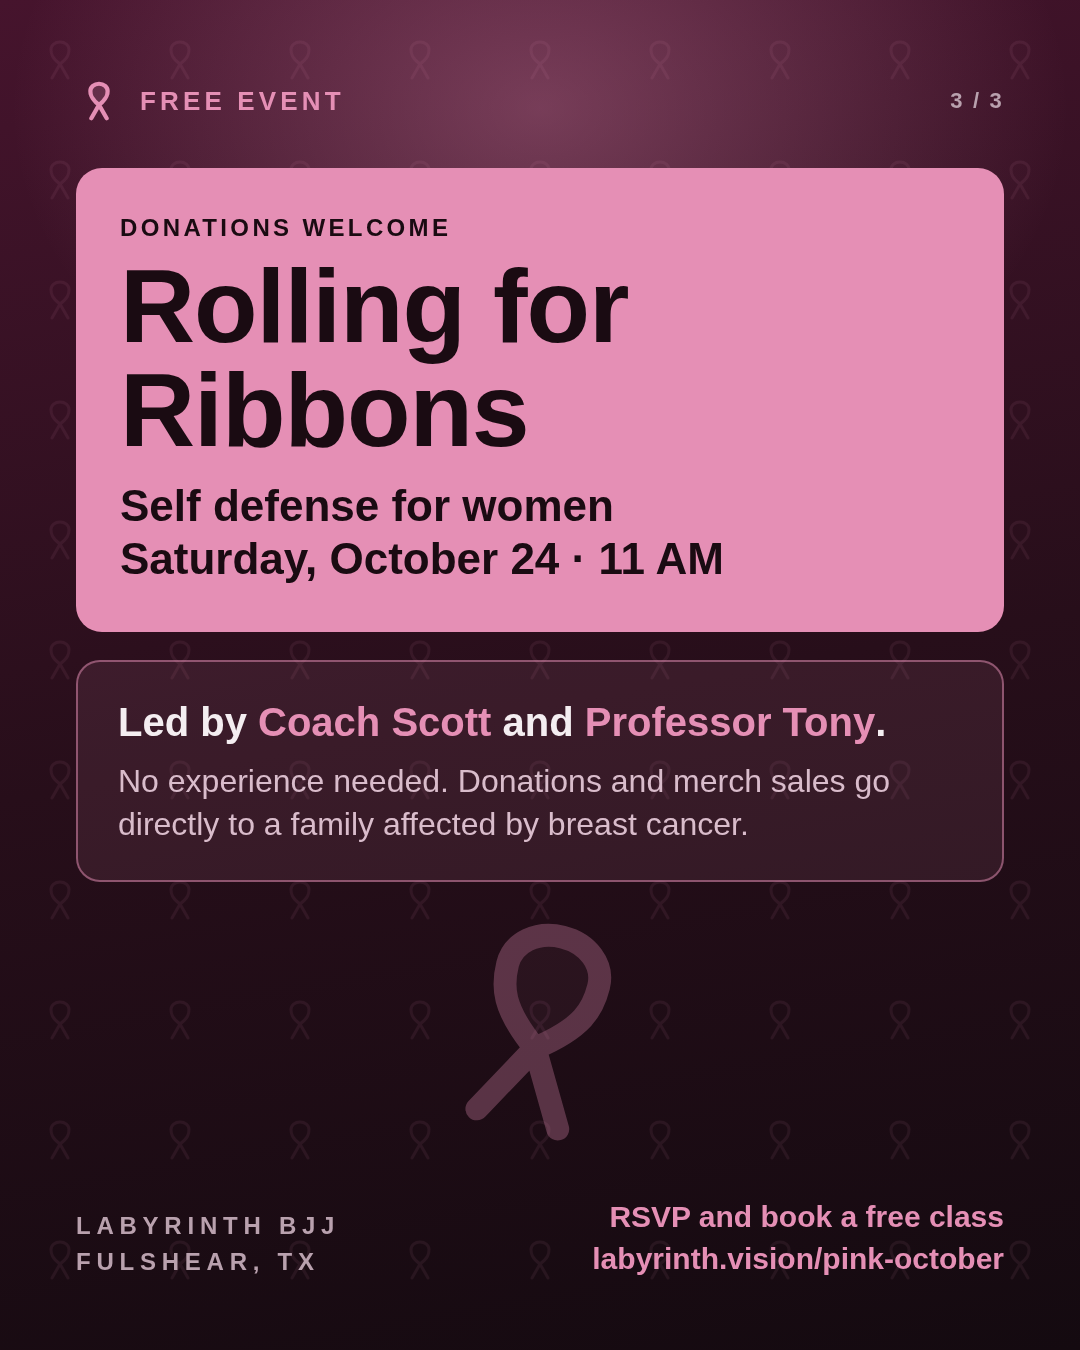
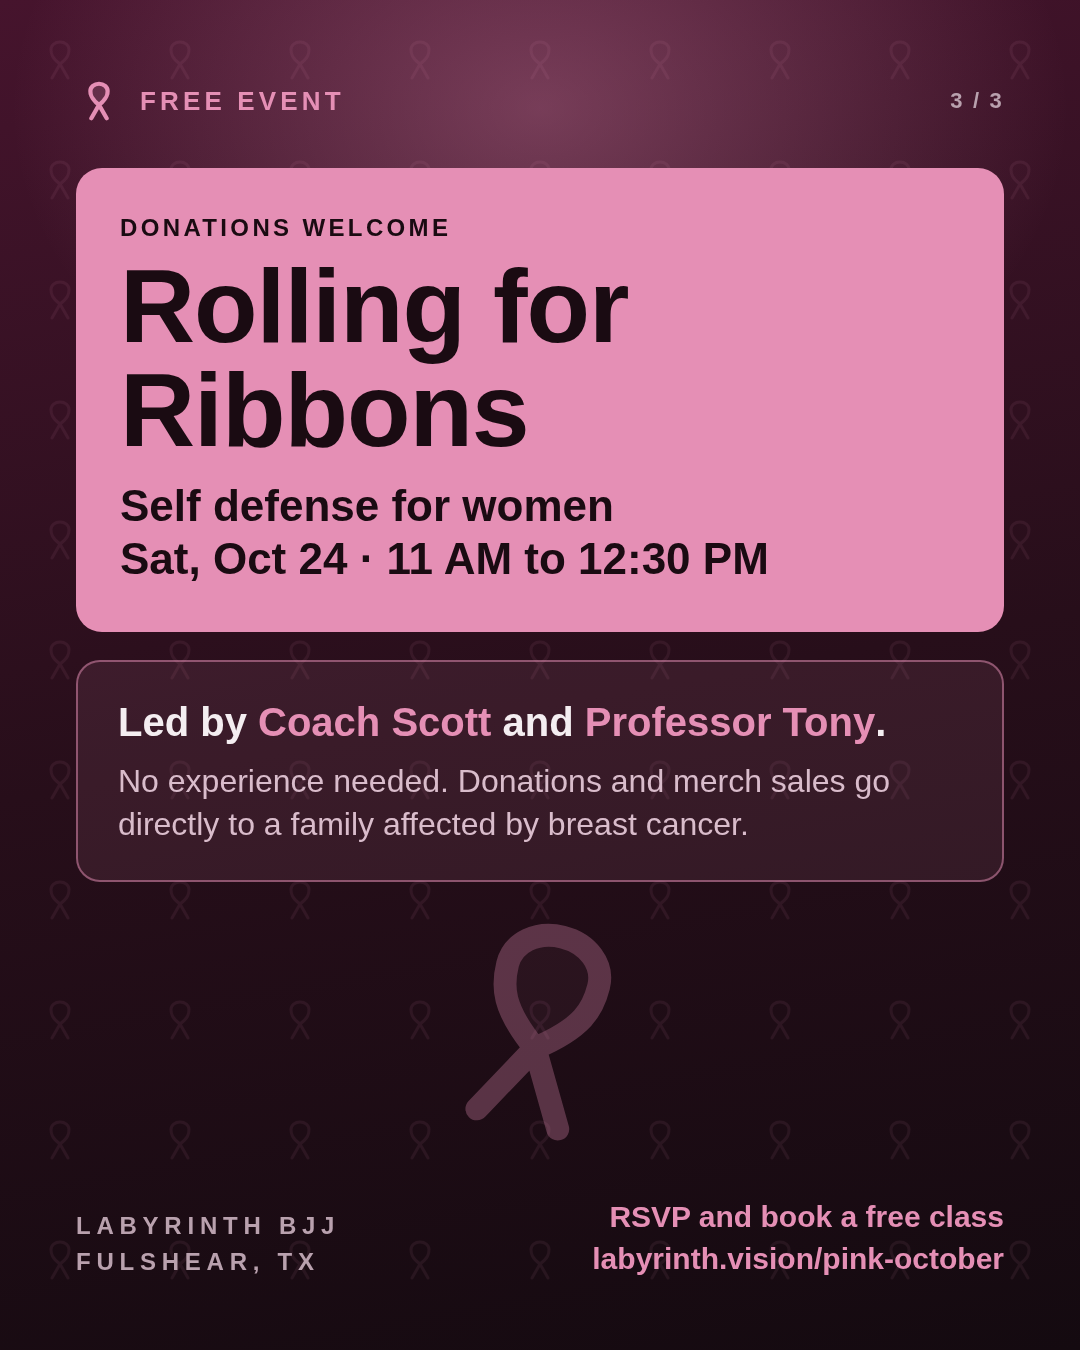
Seminar runs 11:00 AM to 12:30 PM
The hero, thank-you panel, calendar entries, structured data, share image, Instagram
slide, captions and member email all show the full time.

Claude-Session: https://claude.ai/code/session_01T1jcBhMbJVQd3Vp58LzqMh
(cherry picked from commit 36f6d62b3d1dbeb395bc60c4fb3bab60c4b86f59)

Changed region(s): [[0.1528, 0.4044, 0.7333, 0.4356]]

diff --git a/self-defense-for-women.html b/self-defense-for-women.html
@@ -57,6 +57,7 @@
   "description": "Free BJJ self defense seminar for women on Saturday, October 24 at 11:00 AM at Labyrinth BJJ in Fulshear, TX. No experience needed. RSVP now. Donations go to a family affected by breast cancer.",
   "url": "https://labyrinth.vision/self-defense-for-women",
   "startDate": "2026-10-24T11:00:00-05:00",
+  "endDate": "2026-10-24T12:30:00-05:00",
   "eventStatus": "https://schema.org/EventScheduled",
   "eventAttendanceMode": "https://schema.org/OfflineEventAttendanceMode",
   "isAccessibleForFree": true,
@@ -167,7 +168,7 @@
     </div>
     <div class="prog-facts">
       <div class="prog-fact"><div class="prog-fact__label">Date</div><div class="prog-fact__value">Sat, Oct 24</div></div>
-      <div class="prog-fact"><div class="prog-fact__label">Time (Central)</div><div class="prog-fact__value">11:00 AM</div></div>
+      <div class="prog-fact"><div class="prog-fact__label">Time (Central)</div><div class="prog-fact__value">11:00 AM to 12:30 PM</div></div>
       <div class="prog-fact"><div class="prog-fact__label">Where</div><div class="prog-fact__value">Labyrinth BJJ, Fulshear, TX</div></div>
       <div class="prog-fact"><div class="prog-fact__label">Cost</div><div class="prog-fact__value"><em>Free</em></div></div>
     </div>
@@ -193,7 +194,7 @@
 
     <form class="booking-form rsvp__form" id="rsvp-form" novalidate
           data-event="self-defense-women-2026-10-21" data-endpoint="https://jctufxvmuvobaggxcwfn.supabase.co/functions/v1/event-rsvp" data-closes="2026-10-25T10:00:00Z"
-          data-start="2026-10-24T11:00:00-05:00" data-title="Rolling for Ribbons: BJJ for Self Defense for Women" data-where="Labyrinth BJJ, 6615 West Cross Creek Bend Lane, Suite #400, Fulshear, TX 77441" data-url="https://labyrinth.vision/self-defense-for-women">
+          data-start="2026-10-24T11:00:00-05:00" data-minutes="90" data-title="Rolling for Ribbons: BJJ for Self Defense for Women" data-where="Labyrinth BJJ, 6615 West Cross Creek Bend Lane, Suite #400, Fulshear, TX 77441" data-url="https://labyrinth.vision/self-defense-for-women">
       <p class="rsvp__form-title"><svg class="ribbon" width="18" height="18" viewBox="0 0 24 24" fill="none" stroke="currentColor" stroke-width="2.2" stroke-linecap="round" stroke-linejoin="round" aria-hidden="true" focusable="false"><path d="M12 14C8 11 7.5 9 7.5 6.8 7.5 4.6 9.5 3 12 3s4.5 1.6 4.5 3.8C16.5 9 16 11 12 14zM12 14 8 21M12 14l4 7" fill="currentColor" fill-opacity=".18"/></svg>Save your spot <span>Takes 30 seconds</span></p>
       <div class="booking-form__group">
         <label class="booking-form__label" for="rsvp-name">Full name</label>
@@ -248,7 +249,7 @@
       <svg class="ribbon" width="40" height="40" viewBox="0 0 24 24" fill="none" stroke="currentColor" stroke-width="2.2" stroke-linecap="round" stroke-linejoin="round" aria-hidden="true" focusable="false"><path d="M12 14C8 11 7.5 9 7.5 6.8 7.5 4.6 9.5 3 12 3s4.5 1.6 4.5 3.8C16.5 9 16 11 12 14zM12 14 8 21M12 14l4 7" fill="currentColor" fill-opacity=".18"/></svg>
       <p class="section-label rsvp-label">You are on the list</p>
       <h2 class="section-title section-title--lg" id="rsvp-success-title">SEE YOU THERE</h2>
-      <p><span id="rsvp-success-name"></span>, we have you down for <span id="rsvp-success-party"></span> on <strong>Saturday, October 24 at 11:00 AM</strong> at Labyrinth BJJ in Fulshear.</p>
+      <p><span id="rsvp-success-name"></span>, we have you down for <span id="rsvp-success-party"></span> on <strong>Saturday, October 24, 11:00 AM to 12:30 PM</strong> at Labyrinth BJJ in Fulshear.</p>
       <p>A confirmation is on its way to <strong id="rsvp-success-email"></strong>. If you do not see it in a few minutes, check your spam folder. To change your RSVP, just submit this form again.</p>
       <div class="prog-hero__cta rsvp__next">
         <a href="#" class="btn btn--gold" id="rsvp-cal-google" target="_blank" rel="noopener noreferrer">Add to Google Calendar</a>
@@ -367,7 +368,7 @@
 </section>
 
 <a href="#rsvp" class="rsvp-sticky" id="rsvp-sticky" hidden><svg class="ribbon" width="16" height="16" viewBox="0 0 24 24" fill="none" stroke="currentColor" stroke-width="2.2" stroke-linecap="round" stroke-linejoin="round" aria-hidden="true" focusable="false"><path d="M12 14C8 11 7.5 9 7.5 6.8 7.5 4.6 9.5 3 12 3s4.5 1.6 4.5 3.8C16.5 9 16 11 12 14zM12 14 8 21M12 14l4 7" fill="currentColor" fill-opacity=".18"/></svg><span><strong>RSVP free</strong> &middot; Sat, Oct 24 &middot; 11:00 AM</span><b>Save My Spot</b></a>
-<script src="/rsvp.js?v=8e211cfd" defer></script>
+<script src="/rsvp.js?v=62f664ed" defer></script>
 
 </main>
 

diff --git a/rsvp.js b/rsvp.js
@@ -88,7 +88,7 @@
   var pageTitle = form.getAttribute('data-title') || 'Rolling for Ribbons';
   var where = form.getAttribute('data-where') || 'Labyrinth BJJ, Fulshear, TX';
   var pageUrl = form.getAttribute('data-url') || window.location.href.split('?')[0];
-  var EVENT_MINUTES = 60;  // a default for calendar entries; the page does not promise a length
+  var EVENT_MINUTES = parseInt(form.getAttribute('data-minutes'), 10) || 90;  // 11:00 AM to 12:30 PM
 
   function centralDay(ms) {
     return new Intl.DateTimeFormat('en-CA', { timeZone: 'America/Chicago', year: 'numeric', month: '2-digit', day: '2-digit' }).format(new Date(ms));
@@ -141,7 +141,7 @@
     var btn = $('rsvp-share'), msg = $('rsvp-shared');
     if (!btn) return;
     btn.addEventListener('click', function () {
-      var text = 'Free self defense seminar for women, Saturday, October 24 at 11 AM at Labyrinth BJJ in Fulshear. No experience needed. Come with me?';
+      var text = 'Free self defense seminar for women, Saturday, October 24, 11 AM to 12:30 PM, at Labyrinth BJJ in Fulshear. No experience needed. Come with me?';
       if (navigator.share) {
         navigator.share({ title: pageTitle, text: text, url: pageUrl }).catch(function () { /* closed the sheet */ });
         return;

diff --git a/scripts/email-pink-october.html b/scripts/email-pink-october.html
@@ -63,7 +63,7 @@
           <div style="font-size:13px;font-weight:bold;letter-spacing:2px;color:#E58FB5;text-transform:uppercase;">Free event &middot; Donations welcome</div>
           <div style="margin-top:6px;font-size:30px;line-height:1.15;font-weight:bold;color:#ffffff;">Rolling for Ribbons</div>
           <div style="margin-top:4px;font-size:18px;line-height:1.4;font-weight:bold;color:#fbd3e3;">Self defense for women</div>
-          <div style="margin-top:14px;font-size:17px;line-height:1.5;color:#ffffff;"><strong>Saturday, October 24 at 11:00 AM</strong><br>Labyrinth BJJ, Fulshear, TX</div>
+          <div style="margin-top:14px;font-size:17px;line-height:1.5;color:#ffffff;"><strong>Saturday, October 24, 11:00 AM to 12:30 PM</strong><br>Labyrinth BJJ, Fulshear, TX</div>
           <div style="margin-top:14px;font-size:16px;line-height:1.6;color:#fbd3e3;">Led by Coach Scott and Professor Tony. It's free, and no experience is needed. Donations and merch sales at the event go directly to a family affected by breast cancer.</div>
           <table role="presentation" cellpadding="0" cellspacing="0" border="0" style="margin-top:20px;">
             <tr><td align="center" bgcolor="#E58FB5" style="border-radius:10px;">

diff --git a/scripts/instagram-pink-october.html b/scripts/instagram-pink-october.html
@@ -81,7 +81,7 @@
 <div class="slide s3" id="s3"><div class="pattern"></div>
   <div class="wrap">
     <div class="top"><svg><use href="#rib"/></svg>Free event<span class="pg">3 / 3</span></div>
-    <div class="event"><small>Donations welcome</small><b>Rolling for Ribbons</b><span>Self defense for women<br>Saturday, October 24 &middot; 11 AM</span></div>
+    <div class="event"><small>Donations welcome</small><b>Rolling for Ribbons</b><span>Self defense for women<br>Sat, Oct 24 &middot; 11 AM to 12:30 PM</span></div>
     <div class="led">Led by <b>Coach Scott</b> and <b>Professor Tony</b>.<i>No experience needed. Donations and merch sales go directly to a family affected by breast cancer.</i></div>
     <svg class="bigrib"><use href="#rib"/></svg>
     <div class="foot">

diff --git a/scripts/og-self-defense.html b/scripts/og-self-defense.html
@@ -24,7 +24,7 @@
     <div class="badge">Breast cancer awareness</div>
     <h1>Rolling for <span>Ribbons</span></h1>
     <div class="sub">BJJ for Self Defense for Women</div>
-    <div class="when">Saturday, October 24 &middot; 11:00 AM</div>
+    <div class="when">Saturday, October 24 &middot; 11:00 AM to 12:30 PM</div>
     <div class="free">FREE &middot; No experience needed</div>
   </div>
   <div class="brand">LABYRINTH BJJ &middot; FULSHEAR, TX</div>

diff --git a/scripts/build_pages.py b/scripts/build_pages.py
@@ -779,6 +779,8 @@ EVENT = {
     "path": "/self-defense-for-women",
     # 11:00 AM on Oct 24 is CDT (UTC-5): Texas moves its clocks on Nov 1.
     "start": "2026-10-24T11:00:00-05:00",
+    # 11:00 AM to 12:30 PM.
+    "minutes": 90,
     # After this the form says the event has passed (and the server refuses).
     # Matches closesAt in event-emails.ts: 5:00 AM Central the next morning.
     "closes_utc": "2026-10-25T10:00:00Z",
@@ -813,6 +815,15 @@ def _event_when():
     hour12 = d.hour % 12 or 12
     time = "%d:%02d %s" % (hour12, d.minute, "AM" if d.hour < 12 else "PM")
     return (d.strftime("%A, %B ") + str(d.day), d.strftime("%a, %b ") + str(d.day), time)
+
+
+def _event_range():
+    """'11:00 AM to 12:30 PM', and the end as an ISO instant for the structured data."""
+    import datetime
+    d = datetime.datetime.fromisoformat(EVENT["start"])
+    e = d + datetime.timedelta(minutes=EVENT["minutes"])
+    fmt = lambda t: "%d:%02d %s" % (t.hour % 12 or 12, t.minute, "AM" if t.hour < 12 else "PM")
+    return "%s to %s" % (fmt(d), fmt(e)), e.isoformat()
 
 
 # ── /pink-october ────────────────────────────────────────────────────────────
@@ -889,6 +900,7 @@ def render_event_rsvp():
                 "@context": "https://schema.org", "@type": "Event",
                 "name": EVENT["name"], "description": desc, "url": url,
                 "startDate": EVENT["start"],
+                "endDate": _event_range()[1],
                 "eventStatus": "https://schema.org/EventScheduled",
                 "eventAttendanceMode": "https://schema.org/OfflineEventAttendanceMode",
                 "isAccessibleForFree": True,
@@ -924,7 +936,7 @@ def render_event_rsvp():
     </div>
     <div class="prog-facts">
       <div class="prog-fact"><div class="prog-fact__label">Date</div><div class="prog-fact__value">@@SHORT@@</div></div>
-      <div class="prog-fact"><div class="prog-fact__label">Time (Central)</div><div class="prog-fact__value">@@TIME@@</div></div>
+      <div class="prog-fact"><div class="prog-fact__label">Time (Central)</div><div class="prog-fact__value">@@RANGE@@</div></div>
       <div class="prog-fact"><div class="prog-fact__label">Where</div><div class="prog-fact__value">Labyrinth BJJ, Fulshear, TX</div></div>
       <div class="prog-fact"><div class="prog-fact__label">Cost</div><div class="prog-fact__value"><em>Free</em></div></div>
     </div>
@@ -950,7 +962,7 @@ def render_event_rsvp():
 
     <form class="booking-form rsvp__form" id="rsvp-form" novalidate
           data-event="@@SLUG@@" data-endpoint="@@ENDPOINT@@" data-closes="@@CLOSES@@"
-          data-start="@@STARTISO@@" data-title="@@NAME@@" data-where="@@WHERE@@" data-url="@@PAGEURL@@">
+          data-start="@@STARTISO@@" data-minutes="@@MINUTES@@" data-title="@@NAME@@" data-where="@@WHERE@@" data-url="@@PAGEURL@@">
       <p class="rsvp__form-title">@@RIBBON18@@Save your spot <span>Takes 30 seconds</span></p>
       <div class="booking-form__group">
         <label class="booking-form__label" for="rsvp-name">Full name</label>
@@ -1005,7 +1017,7 @@ def render_event_rsvp():
       @@RIBBON40@@
       <p class="section-label rsvp-label">You are on the list</p>
       <h2 class="section-title section-title--lg" id="rsvp-success-title">SEE YOU THERE</h2>
-      <p><span id="rsvp-success-name"></span>, we have you down for <span id="rsvp-success-party"></span> on <strong>@@LONG@@ at @@TIME@@</strong> at Labyrinth BJJ in Fulshear.</p>
+      <p><span id="rsvp-success-name"></span>, we have you down for <span id="rsvp-success-party"></span> on <strong>@@LONG@@, @@RANGE@@</strong> at Labyrinth BJJ in Fulshear.</p>
       <p>A confirmation is on its way to <strong id="rsvp-success-email"></strong>. If you do not see it in a few minutes, check your spam folder. To change your RSVP, just submit this form again.</p>
       <div class="prog-hero__cta rsvp__next">
         <a href="#" class="btn btn--gold" id="rsvp-cal-google" target="_blank" rel="noopener noreferrer">Add to Google Calendar</a>
@@ -1122,7 +1134,7 @@ def render_event_rsvp():
 """
     for token, value in {
         "@@RIBBON16@@": ribbon(16), "@@RIBBON18@@": ribbon(18), "@@RIBBON20@@": ribbon(20), "@@RIBBON40@@": ribbon(40), "@@MARK@@": ribbon(320),
-        "@@PINKPATH@@": PINK["path"], "@@TITLE@@": EVENT["title"], "@@SUBTITLE@@": EVENT["subtitle"], "@@NAME@@": EVENT["name"], "@@STARTISO@@": EVENT["start"], "@@WHERE@@": "Labyrinth BJJ, " + ADDRESS, "@@PAGEURL@@": url, "@@DONATE@@": EVENT["donate_url"], "@@DONATIONS@@": EVENT["donations_endpoint"], "@@GOAL@@": str(EVENT["goal"]), "@@AMOUNTS@@": "\n".join(
+        "@@PINKPATH@@": PINK["path"], "@@TITLE@@": EVENT["title"], "@@SUBTITLE@@": EVENT["subtitle"], "@@NAME@@": EVENT["name"], "@@STARTISO@@": EVENT["start"], "@@MINUTES@@": str(EVENT["minutes"]), "@@RANGE@@": _event_range()[0], "@@WHERE@@": "Labyrinth BJJ, " + ADDRESS, "@@PAGEURL@@": url, "@@DONATE@@": EVENT["donate_url"], "@@DONATIONS@@": EVENT["donations_endpoint"], "@@GOAL@@": str(EVENT["goal"]), "@@AMOUNTS@@": "\n".join(
             '      <a href="%s" class="rsvp-give__amt" target="_blank" rel="noopener noreferrer">$%d</a>' % (u, d)
             for d, u in EVENT["donate_amounts"]), "@@SHORT@@": short_date,
         "@@TIME@@": time, "@@LONG@@": long_date, "@@SLUG@@": EVENT["slug"],
